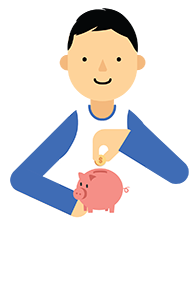
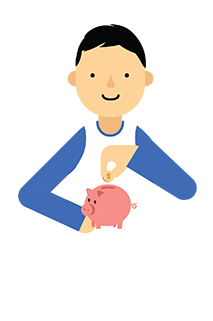
Add Imaage Resizing

diff --git a/assets/css/compare.css b/assets/css/compare.css
@@ -43,18 +43,13 @@ h4 {
 }
 
 .greybox:hover {
-  -webkit-transform: scale(1.1);
-  transform: scale(1.1);
+  background-color: #E5E5E5;
   cursor: pointer;
 }
 
 .transbox {
     margin: 40px;
     padding-left: 10%;
-}
-
-.transbox p {
-
 }
 
 .transbox h4 {
@@ -68,6 +63,10 @@ h4 {
 
 .spencer {
     margin-top: 20px;
+}
+
+.back-button:hover {
+    text-decoration: none;
 }
 
 .control-label {
@@ -143,6 +142,27 @@ thead > tr > td{
       height: 30px;
       font-size: 14px;
   }
+  .sunny {
+  }
+  .transbox {
+      width: 400px;
+      margin-top: 10px;
+      margin-left: 10px;
+      padding-left: 10px;
+      margin-right: 0;
+      padding-right: 0;
+      display: inline-block;
+  }
+  .imagebox {
+      margin-top: 0;
+      margin-bottom: 20px;  
+      display:inline-block;
+      padding-left: 0;
+      margin-left: 0;
+      vertical-align: middle;
+      width: 200px;
+      height: 200px;
+  }
 }
 
 @media only screen and (max-width: 900px) {
@@ -161,6 +181,13 @@ thead > tr > td{
         height: 30px;
         font-size: 14px;
     }
+    .transbox {
+        margin-top: 10px;
+        width: 60%;
+    }
+    .imagebox {
+        margin-top: 0;
+    }
 }
 
 @media only screen and (max-width: 800px) {
@@ -171,11 +198,25 @@ thead > tr > td{
         width: 72%;
         font-size: 12px;
     }
+    .transbox {
+        margin-top: 10px;
+        width: 60%;
+    }
+    .imagebox {
+        margin-top: 0;
+    }
 }
 
 @media only screen and (max-width: 700px) {
     body {
         font-size: 10px;
+    }
+    .transbox {
+        margin-top: 10px;
+        width: 60%;
+    }
+    .imagebox {
+        margin-top: 0;
     }
 }
 
@@ -187,6 +228,21 @@ thead > tr > td{
         width: 250px !important;
         height: 30px;
         font-size: 10px;
+    }
+    .transbox {
+        margin-top: 10px;
+        width: 50%;
+        padding-left: 1%;
+    }
+    .imagebox {
+        margin-top: 0;
+        margin-left: 25px;
+        margin-bottom: 20px;
+        width: 140px;
+        height: 140px;
+    }
+    h4 {
+        font-size: 12px;
     }
 }
 
@@ -202,6 +258,22 @@ thead > tr > td{
         width: 220px !important;
         height: 28px;
         font-size: 10px;
+    }
+    .greybox {
+        margin-top: 0;
+        padding-top: 0;
+    }
+    .transbox {
+        margin-top: 10px;
+        margin-left: 10px;
+        padding-left: 10px;
+    }
+    .imagebox {
+        margin-top: 0;
+        margin-bottom: 20px;
+        margin-left: 0;
+        width: 100px;
+        height: 100px;
     }
 }
 

diff --git a/evaluate.html b/evaluate.html
@@ -20,6 +20,7 @@
     <script src="https://maxcdn.bootstrapcdn.com/bootstrap/3.3.7/js/bootstrap.min.js"></script>
     <!-- Angular Framework -->
     <script src="https://ajax.googleapis.com/ajax/libs/angularjs/1.4.8/angular.min.js"></script>
+    <script src="https://ajax.googleapis.com/ajax/libs/angularjs/1.4.8/angular-animate.js"></script>
     <script src="assets/js/compare.js"></script>
 
     <!-- Font -->
@@ -121,7 +122,7 @@
                     <div class="savChars" ng-show="savingActive" ng-hide="savingChartActive || cellActive || ccardActive">
                         <h4>What do <span style="color: #34C15F">you</span> do with your <span style="color: #34C15F">money</span>?</h4>
                         <div class="greybox" ng-click="savingChartActive=true;savingActive=false;sortType='rate';sortReverse=!sortReverse">
-                            <div class="col-md-5 transbox">
+                            <div class="col-md-5 transbox sunny">
                                 <h4>Sunny the Saver</h4>
                                 <br>
                                 <p>
